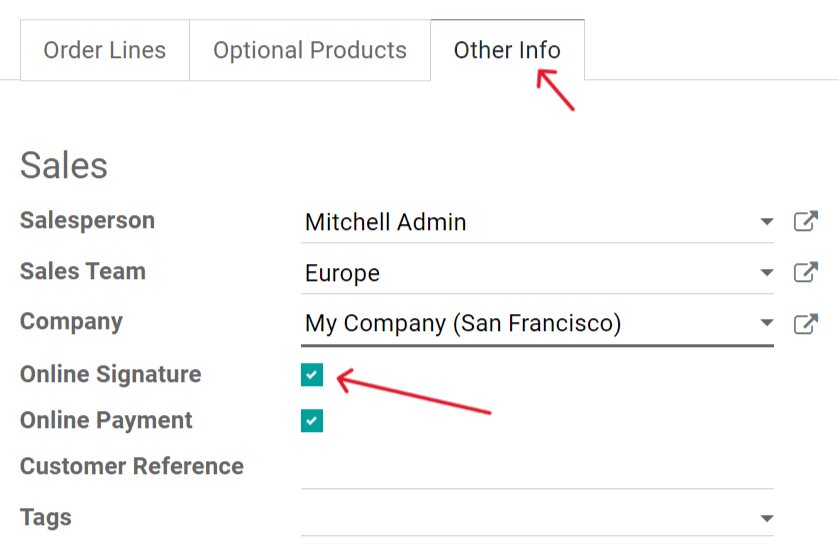
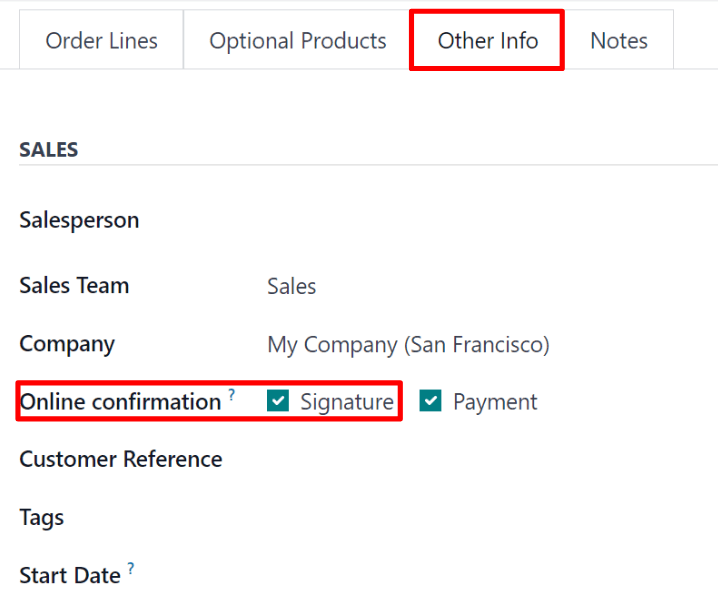
[IMP] sales: update get signature to validate for 16
X-original-commit: e1bed7ee7cd48f8bdfd215674726f0032fe4ff10

diff --git a/content/applications/sales/sales/send_quotations/get_signature_to_validate.rst b/content/applications/sales/sales/send_quotations/get_signature_to_validate.rst
@@ -2,51 +2,77 @@
 Online signatures for order confirmations
 =========================================
 
-The Odoo *Sales* application provides customers with the ability to confirm orders via an online
-signature directly on the sales order. Once the sales order is electronically signed by the
-customer, the salesperson attached to the sales order is automatically notified that the order is
+The Odoo *Sales* application provides customers with the ability to confirm orders, via an online
+signature, directly on the sales order. Once the sales order is electronically signed by the
+customer, the salesperson attached to the sales order is instantly notified that the order is
 confirmed.
 
 Activate online signatures
 ==========================
 
-To activate the *online signature* feature, go to :menuselection:`Sales app --> Configuration -->
-Settings`, scroll to the :guilabel:`Quotations & Orders` heading, and activate the :guilabel:`Online
-Signature` feature by checking the box beside it. Then, click the :guilabel:`Save` button in the
-top-left corner.
+In order to have customers confirm orders with an online signature, the *Online Signature* feature
+**must** be activated.
+
+To activate the *Online Signature* feature, go to :menuselection:`Sales app --> Configuration -->
+Settings`, scroll to the :guilabel:`Quotations \& Orders` heading, and activate the
+:guilabel:`Online Signature` feature by checking the box beside it.
 
 .. image:: get_signature_to_validate/signature-setting.png
    :align: center
-   :alt: How to enable online signature in Odoo Sales settings.
+   :alt: The Online Signature feature option in the Settings of the Odoo Sales application.
+
+Then, click the :guilabel:`Save` button in the top-left corner.
 
 .. note::
-   On quotation templates, the :guilabel:`Online Signature` feature is located under the
-   :guilabel:`Confirmation` tab.
+   When making a quotation template, the online signature feature is the :guilabel:`Signature`
+   option, located in the :guilabel:`Online confirmation` field of the quotation template form.
 
-   .. image:: get_signature_to_validate/signature-confirmation-tab.png
+   .. image:: get_signature_to_validate/signature-feature-quotation-template.png
       :align: center
-      :alt: How to enable online signature on a quotation template.
+      :alt: The Online confirmation signature option found on every quotation template in Odoo.
 
-   On standard quotations, the :guilabel:`Online Signature` feature is located under the
-   :guilabel:`Other Info` tab.
+   On standard quotations, the online signature feature is the :guilabel:`Signature` option, located
+   under the :guilabel:`Other Info` tab of the quotation form.
 
    .. image:: get_signature_to_validate/signature-other-info-tab.png
       :align: center
-      :alt: How to enable online signature on standard quotations.
+      :alt: The online signature feature option in the Other Info tab of a quotation form in Odoo.
 
 Order confirmations with online signatures
 ==========================================
 
-When quotations are sent to clients, there's an option for them to :guilabel:`Sign & Pay` directly
-on the quotation in the online customer portal. When clicked, clients have the option to draw a
-signature, fill in the field with an automated signature, or load a file from their computer.
+When clients access quotations online through their customer portal, there's a :guilabel:`Sign \&
+Pay` button directly on the quotation.
 
-.. image:: get_signature_to_validate/signature-validate-order.png
+.. image:: get_signature_to_validate/sign-and-pay-button.png
    :align: center
-   :alt: How to confirm an order with a signature on Odoo Sales.
+   :alt: The Sign and Pay button present on online quotations in Odoo Sales.
 
-Once signed, the various payment method options become available. Then, when the quotation is paid
-and confirmed, a delivery order is automatically created (if the Odoo *Inventory* app is installed).
+When clicked, a :guilabel:`Validate Order` pop-up window appears. In this pop-up window, the
+:guilabel:`Full Name` field is auto-populated, based on the contact information in the database.
+
+.. image:: get_signature_to_validate/validate-order-popup.png
+   :align: center
+   :alt: The Validate Order pop-up window for online signatures in Odoo Sales.
+
+Then, customers have the option to enter an online signature with any of the following options:
+:guilabel:`Auto`, :guilabel:`Draw`, or :guilabel:`Load`.
+
+:guilabel:`Auto` lets Odoo automatically generate an online signature based on the information in
+the :guilabel:`Full Name` field. :guilabel:`Draw` lets the customer use the cursor to create a
+custom signature directly on the pop-up window. And :guilabel:`Load` lets the customer upload a
+previously-created signature file from their computer.
+
+After the customer has chosen any of the three previously mentioned signature options
+(:guilabel:`Auto`, :guilabel:`Draw`, or :guilabel:`Load`), they will click the :guilabel:`Accept \&
+Sign` button.
+
+When :guilabel:`Accept \& Sign` is clicked, the various payment method options become available for
+them to choose from (if the *online payment* option applies to this quotation).
+
+Then, when the quotation is paid and confirmed, a delivery order is automatically created (if the
+Odoo *Inventory* app is installed).
 
 .. seealso::
-   :doc:`/applications/sales/sales/send_quotations/quote_template`
+   - :doc:`quote_template`
+   - :doc:`get_paid_to_validate`
